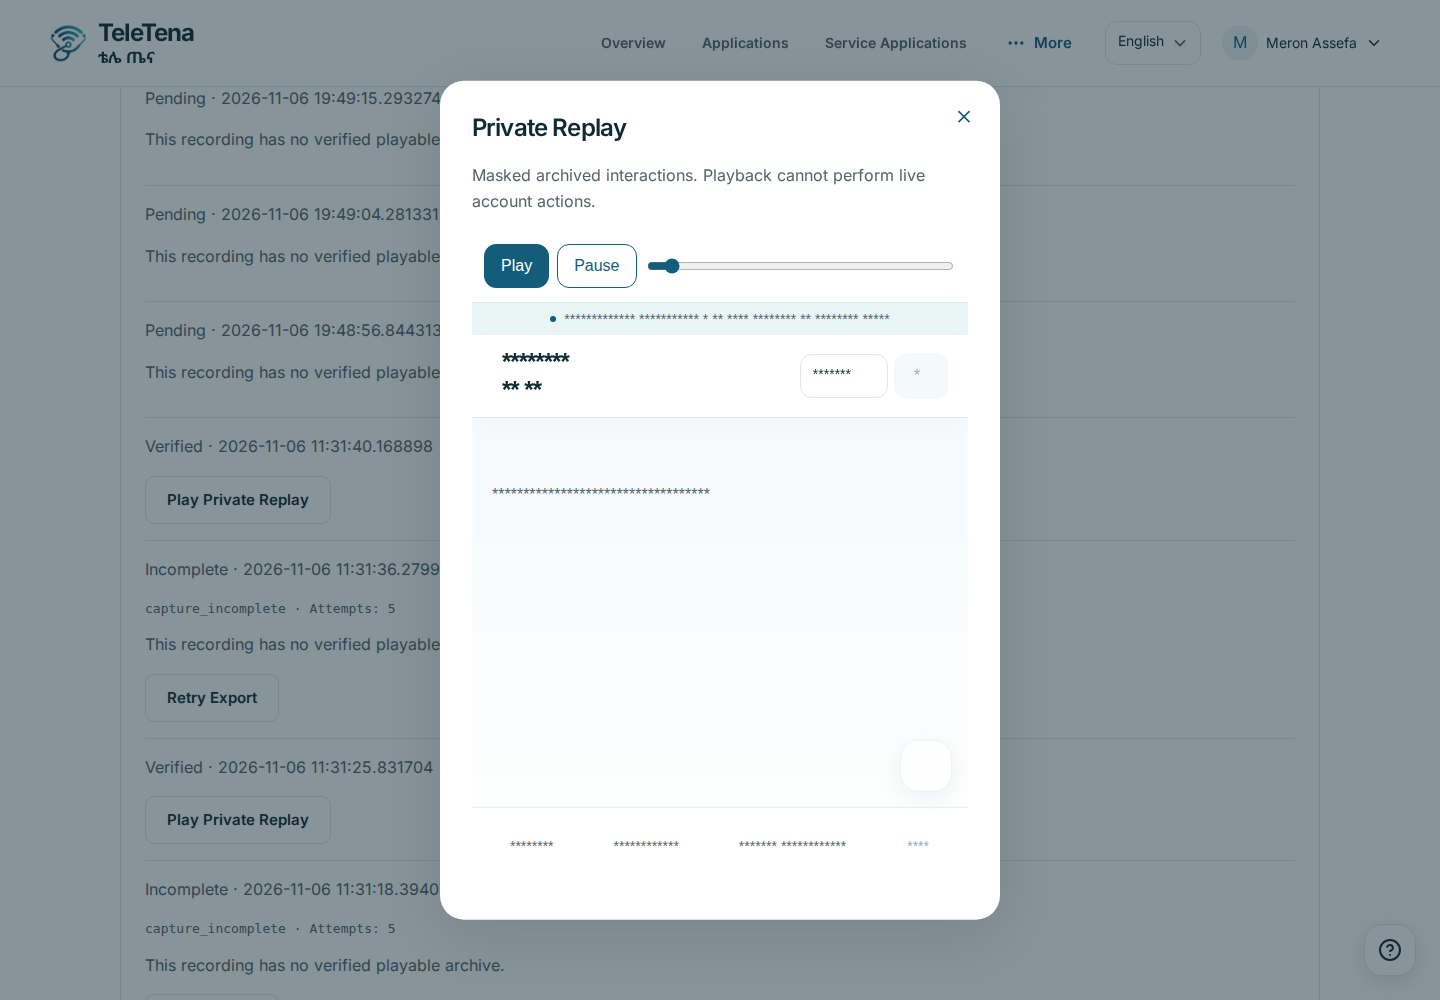
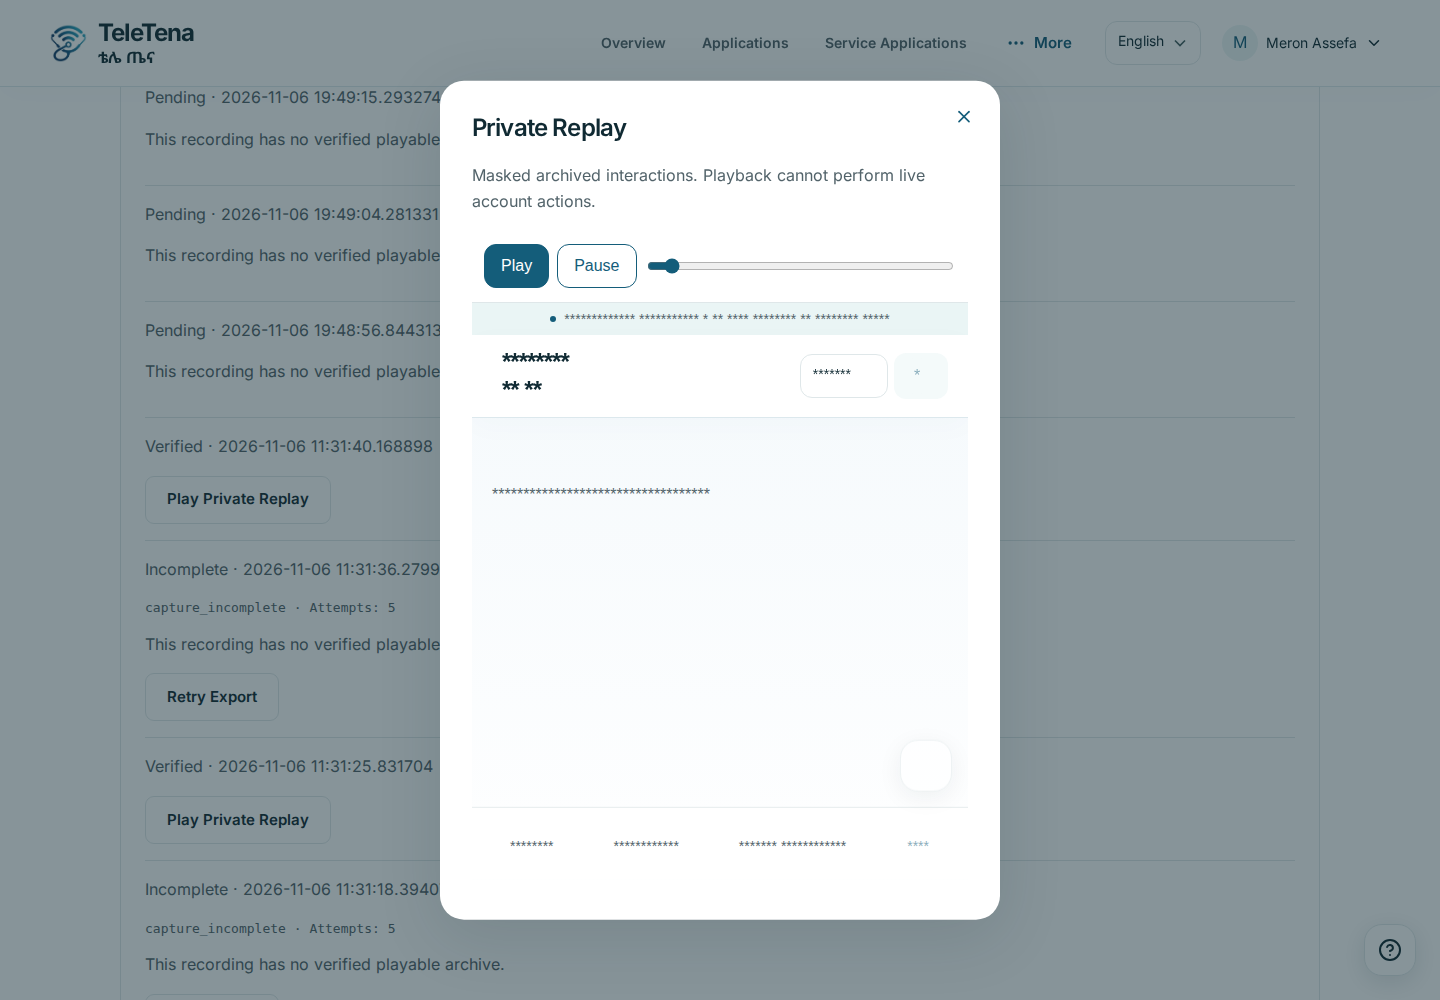
docs(operations): consolidate final capture and preservation verification

diff --git a/docs/selfmade-operations-update.md b/docs/selfmade-operations-update.md
@@ -12,7 +12,7 @@ English fallbacks. It imports no workbook drafts and does not claim clinical,
 legal-policy, native-language or real-payment readiness. Final localization still
 requires genuine independent approvals, validated import and a new verified pin.
 
-Installation pin: `47cd8f899e3026d5fc3c80e1c851e0ced5f43387`, branch `feat/operations-journey-insights`,
+Installation pin: `5b78294a251efdc6a9cd4238a3a41a80f312856a`, branch `feat/operations-journey-insights`,
 draft PR dependent on PR51/50. The additivev1.53/v1.54 migrations add private operations/capture/chunk
 command tables and indexes only. Existing clinical, financial, evidence and preference values
 remain unchanged. No Python requirements change; frontend adds locked PostHog JS
@@ -45,7 +45,7 @@ umask 077
 cd /home/smcs/frappe-bench
 SITE=teletena.selfmadecs.com
 BENCH_CLI=/home/smcs/.pyenv/versions/3.14.2/bin/bench
-RELEASE_SHA=47cd8f899e3026d5fc3c80e1c851e0ced5f43387
+RELEASE_SHA=5b78294a251efdc6a9cd4238a3a41a80f312856a
 RELEASE_PURPOSE=demo # only demo or localized; localized additionally requires complete approved coverage
 OLD_SHA=$(git -C apps/tele_tena rev-parse HEAD)
 printf 'Installed TeleTena: %s\n' "$OLD_SHA"
@@ -146,7 +146,7 @@ umask 077
 cd /home/smcs/frappe-bench
 SITE=teletena.selfmadecs.com
 BENCH_CLI=/home/smcs/.pyenv/versions/3.14.2/bin/bench
-RELEASE_SHA=47cd8f899e3026d5fc3c80e1c851e0ced5f43387
+RELEASE_SHA=5b78294a251efdc6a9cd4238a3a41a80f312856a
 RELEASE_PURPOSE=demo # only demo or localized; localized additionally requires complete approved coverage
 UPDATE_BACKUP=/home/smcs/teletena-before-operations.RETAINED_PATH
 TOOLS="$UPDATE_BACKUP/tools"

diff --git a/docs/operations/verification.md b/docs/operations/verification.md
@@ -1,3 +1,20 @@
+## Final Local Package — 6 November2026
+
+Installation/build: `5b78294a251efdc6a9cd4238a3a41a80f312856a`. Preview8017 serves this exact release; later
+documentation/evidence changes do not change runtime assets/backend.
+v1.54 fresh/repeat and populated preservation pass;16capture,19operations and
+30communications tests,8budget,6cleanup-retry,5native-budget,1due-time guard,
+localization5+2, build/lint and exact private-asset/hash scans pass. Current frontend
+lint retains existing warnings, zero errors. The strengthened built PWA check
+verifies obsolete public-cache eviction as well as API/private denial and
+offline→online recovery. Restart uses only owned preview processes; final financial
+reconciliation11patients/2clinicians/22accounts has zero mismatches.
+
+[Current matrix](acceptance-matrix.json), [actual V2/due command](live-verification-results-v2.md),
+[remaining gaps](implementation-gaps.md), [Selfmade guide](../selfmade-operations-update.md)
+and [Sprint2 handoff](operator-and-sprint2.md) are authoritative over historical
+status descriptions below. Sprint1/operational90day archive are not complete.
+
 > **Latest V2 status:** actual native SDK→gateway→worker ingestion and provisional
 > export/playback pass. Its settled native archive/cleanup checkpoint is due
 > **8November2026,00:28:39Africa/Nairobi**, not scheduled or passed.
